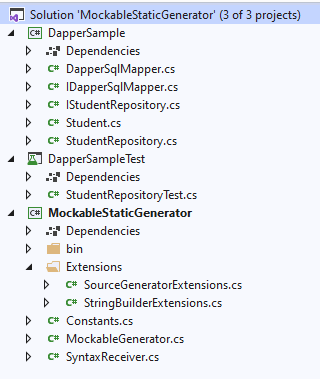
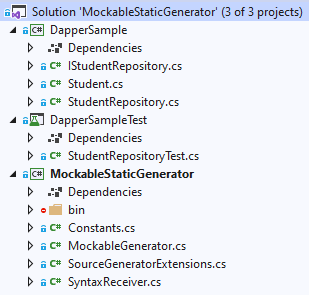
updated

Changed region(s): [[0.0, 0.0, 1.0, 0.9763]]

diff --git a/source/_posts/the-dotnet-world-csharp-source-generator.md b/source/_posts/the-dotnet-world-csharp-source-generator.md
@@ -1,6 +1,6 @@
 ---
 title: The .NET World - C# Source Generator
-date: November 29 2020
+date: December 8 2020
 category: dotnet
 tags:
     - dotnet
@@ -358,63 +358,10 @@ If you think it's a good idea, stay tuned.
 
 ## How to write a source generator?
 
-First of all, go to your `MockableStaticGenerator` project. Create a `Extensions` folder.
-Add the following classes:
+First of all, go to your `MockableStaticGenerator` project. Add `SourceGeneratorExtensions.cs` to the project.
 
 ```cs
-// Extensions/StringBuilderExtensions.cs
-namespace System.Text
-{
-    internal static class StringBuilderExtensions
-    {
-        internal static StringBuilder AppendIf(this StringBuilder @this, Func<string, bool> predicate, params string[] values)
-        {
-            foreach (var value in values)
-                if (predicate(value))
-                    @this.Append(value);
-            return @this;
-        }
-        internal static StringBuilder AppendLineIf(this StringBuilder @this, Func<string, bool> predicate, params string[] values)
-        {
-            foreach (var value in values)
-                if (predicate(value))
-                    @this.AppendLine(value);
-            return @this;
-        }
-
-        internal static StringBuilder AppendJoin(this StringBuilder @this, string separator, params string[] values)
-        {
-            @this.Append(string.Join(separator, values));
-            return @this;
-        }
-
-        internal static StringBuilder AppendLineJoin(this StringBuilder @this, string separator, params string[] values)
-        {
-            @this.AppendLine(string.Join(separator, values));
-            return @this;
-        }
-        internal static StringBuilder AppendFormat(this StringBuilder @this, string format, params object[] args)
-        {
-            @this.Append(string.Format(format, args));
-            return @this;
-        }
-        internal static StringBuilder AppendLineFormat(this StringBuilder @this, string format, params object[] args)
-        {
-            @this.AppendLine(string.Format(format, args));
-            return @this;
-        }
-        internal static string Substring(this StringBuilder @this, int startIndex)
-        {
-            return @this.ToString(startIndex, @this.Length - startIndex);
-        }
-        internal static string Substring(this StringBuilder @this, int startIndex, int length)
-        {
-            return @this.ToString(startIndex, length);
-        }
-    }
-}
-
-// Extensions/SourceGeneratorExtensions
+// SourceGeneratorExtensions.cs
 namespace Microsoft.CodeAnalysis
 {
     internal static class SourceGeneratorExtensions
@@ -424,10 +371,9 @@ namespace Microsoft.CodeAnalysis
 }
 ```
 
-We use `StringBuilder` a lot so not bad to have some useful extension methods. 
-For creating our ultimate goal we need some useful extension methods to make source code sp I will add them to `SourceGeneratorExtensions` class.
+For achieving our ultimate goal we need some useful extension methods to make source code so I will add them to `SourceGeneratorExtensions` class.
 
-Now, Create `SyntaxReceiver` class as following
+Now, Create `SyntaxReceiver` class as following:
 
 ```cs
 using Microsoft.CodeAnalysis;
@@ -494,7 +440,7 @@ For next step, add `Constants` class as following to your project.
 ```cs
 namespace MockableStaticGenerator
 {
-    internal class Constants
+    internal static class Constants
     {
         internal const string MockableStaticAttribute = @"
             namespace System
@@ -517,7 +463,7 @@ namespace MockableStaticGenerator
 As I explained before, We need an attribute (`MockableStaticAttribute`) to annotate our classes. So, we will use above source code text in our source generator.  
 
 * `[MockableStatic]` useful for internal usage and current class.
-* `[MockableStatic(typeof(Dapper.SqlMapper))]` useful for external usage and make a wrapper for an external type.
+* `[MockableStatic(typeof(Dapper.SqlMapper))]` useful for external usage and making a wrapper for an external type.
 
 ![](/images/the-dotnet-world-csharp-source-generator/solution4.png)
 
@@ -547,6 +493,8 @@ First we added our `MockableStaticAttribute` text source to the project.
 Next I checked if there is no `SyntaxReceiver` just return without any generated code.
 
 The most important part is finding our `MockableStaticAttribute` text source from syntax tree.
+
+In summary, First you need to add source text as a part of project then get it from compiler as a Symbol type to work with it in strongly typed way.
 
 Now, Add `MockableStaticGenerator` project to `DapperSample` as a reference project but you should update `DapperSample.csproj` file as following. 
 
